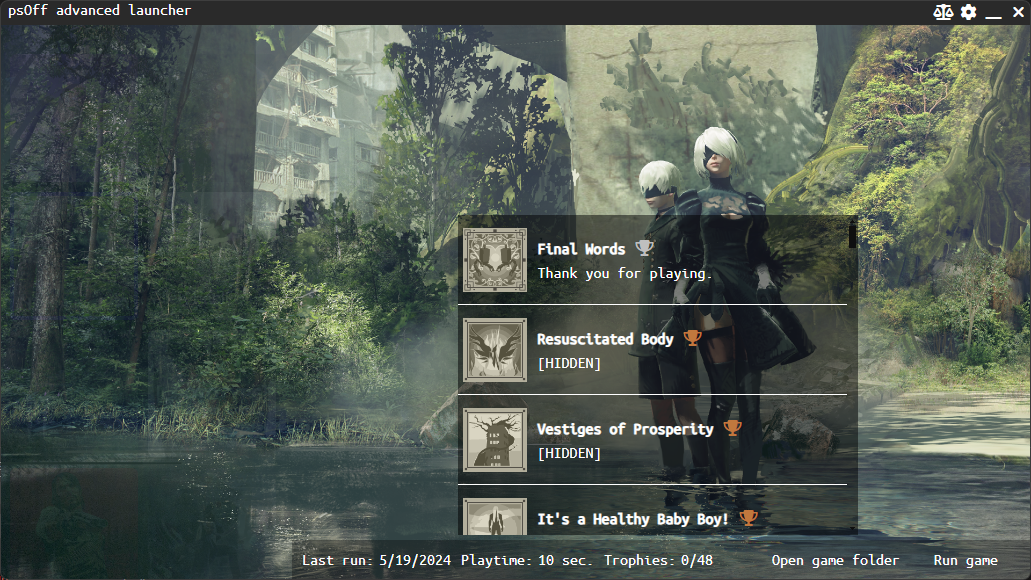
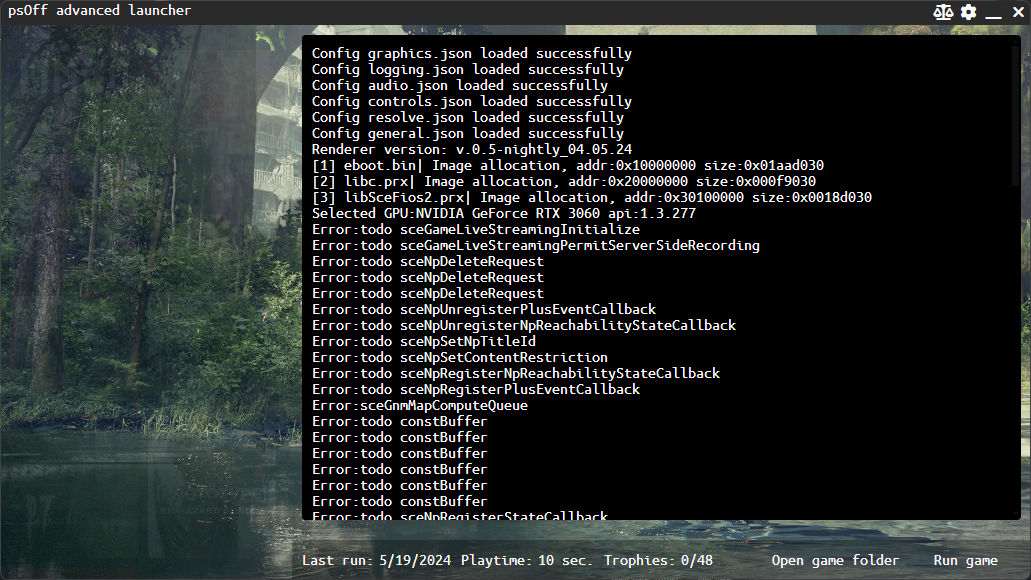
Add terminal info to tutorial

diff --git a/webroot/js/main/tutorial.js b/webroot/js/main/tutorial.js
@@ -14,8 +14,10 @@
     { action: 'hint', clip: { sx: 58.58, ex: 69.06, sy: 93.10, ey: 100 }, text: 'trophybtn', teycx: true, tx: 63.86, ty: 93.10 },
     { action: 'bgimg', image: 'screen2_a' },
     { action: 'hint', clip: { sx: 44.03, ex: 82.74, sy: 37.07, ey: 92.07 }, text: 'trophytrk', teycx: true, tx: 63.86, ty: 37.07 },
-    { action: 'bgimg', image: 'screen2_c' },
+    { action: 'bgimg', image: 'screen2_b' },
     { action: 'hint', clip: { sx: 44.42, ex: 83.12, sy: 37.06, ey: 92.07 }, text: 'trophylst', teycx: true, tx: 63.86, ty: 37.07 },
+    { action: 'bgimg', image: 'screen2_c' },
+    { action: 'hint', clip: { sx: 29.29, ex: 98.93, sy: 6.03, ey: 89.48 }, text: 'console', teycy: true, tx: 0.53, ty: 47.76 },
     { action: 'bgimg', image: 'screen3' },
     { action: 'hint', clip: { sx: 31.23, ex: 67.21, sy: 23.27, ey: 26.72 }, text: 'bgmvol', tcx: true, tx: 50 },
     { action: 'hint', clip: { sx: 31.23, ex: 67.21, sy: 27.75, ey: 31.20 }, text: 'ghtoken', tcx: true, tx: 50 },
@@ -88,6 +90,7 @@
         if (step.tc) text.style.transform = 'translate(-50%, -50%)';
         else if (step.tcx) text.style.transform = 'translateX(-50%)';
         else if (step.tey) text.style.transform = 'translateY(-100%)';
+        else if (step.teycy) text.style.transform = 'translateY(-50%)';
         else if (step.teycx) text.style.transform = 'translate(-50%, -100%)';
         else text.style.transform = null;
 

diff --git a/main.js b/main.js
@@ -240,7 +240,7 @@ const commandHandler = (channel, cmd, info) => {
         if (config.getValue('dblcl_ask')) {
           win.send('warnmsg', {
             hidden: false, type: 'text', id: 'dbl-warn',
-            text: '{$tr:main.actions.dblrun}', buttons: ['{$tr:buttons.no}', '{$tr:buttons.ye}']
+            text: '{$tr:main.actions.dblrun}', buttons: ['{$tr:buttons.ye}', '{$tr:buttons.no}']
           });
         }
         return;
